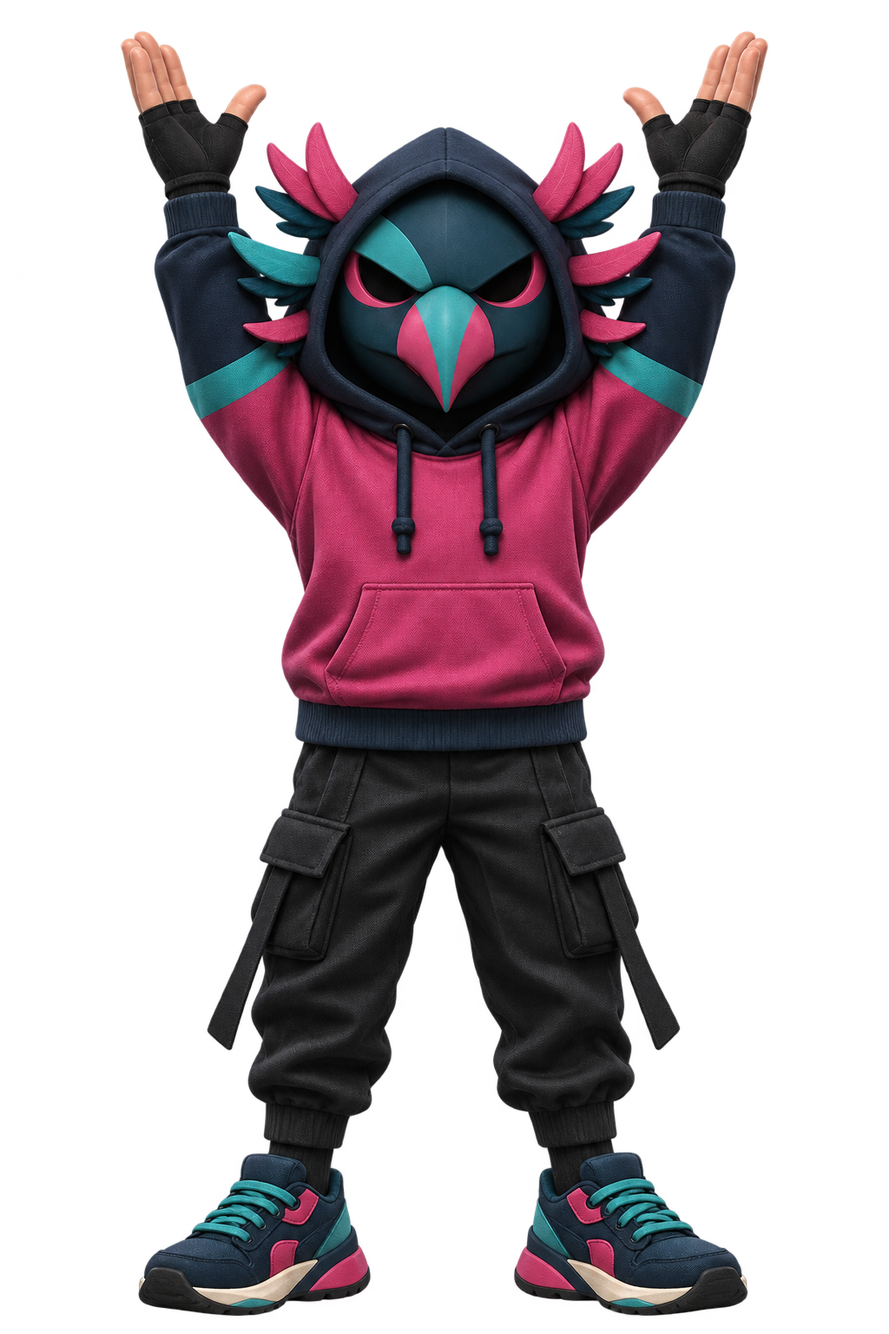
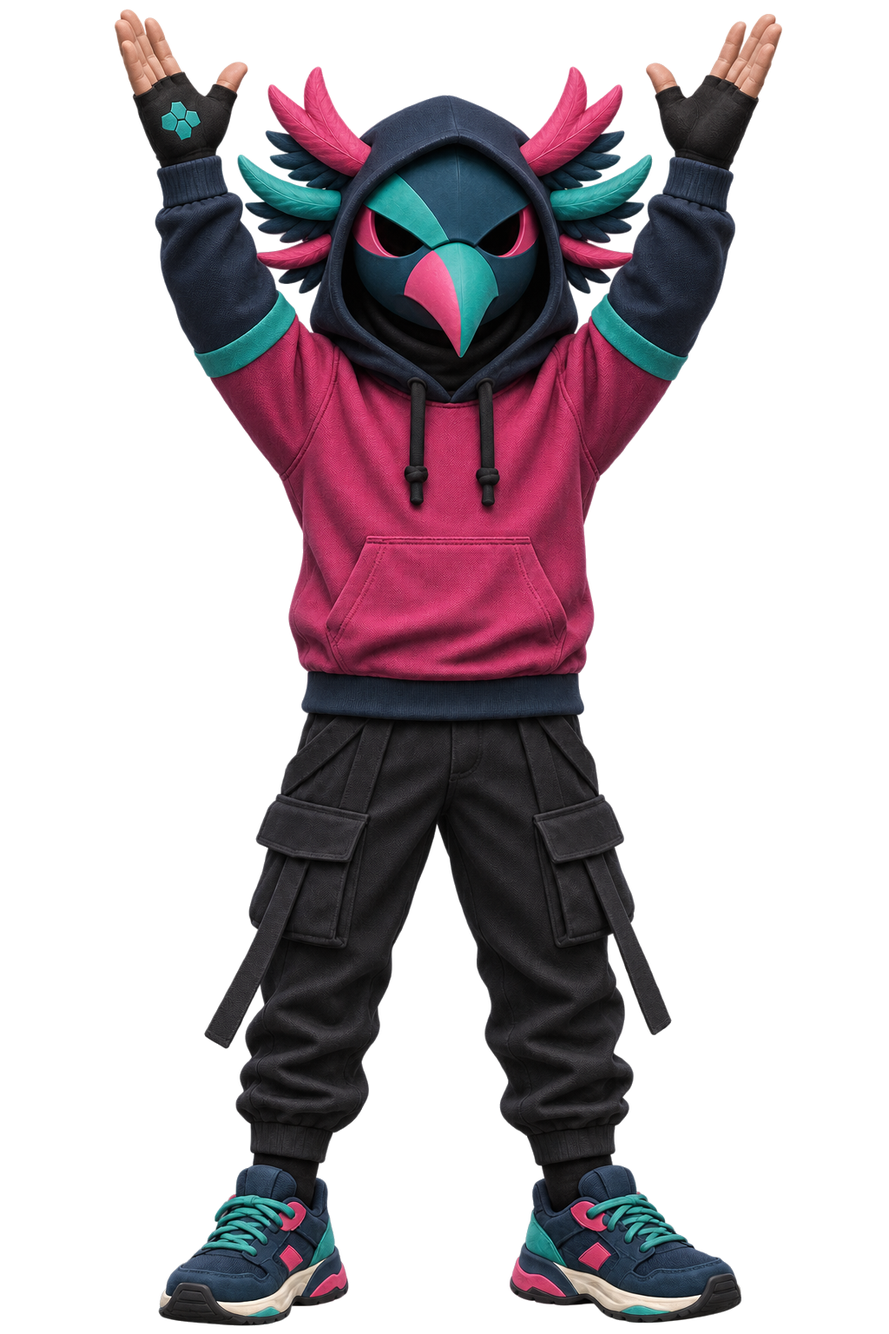
Arc: consistent realistic poses redrawn from one reference, glow removed

Changed region(s): [[0.125, 0.0, 0.875, 1.0], [0.5625, 0.6562, 0.5938, 0.6875]]

diff --git a/pricing.html b/pricing.html
@@ -20,7 +20,7 @@
 <link rel="preconnect" href="https://fonts.googleapis.com">
 <link rel="preconnect" href="https://fonts.gstatic.com" crossorigin>
 <link rel="stylesheet" href="https://fonts.googleapis.com/css2?family=Bebas+Neue&family=Caveat:wght@600&family=Figtree:wght@400;500;600;700&family=Archivo:wdth,wght@62..125,400..900&display=swap">
-<link rel="stylesheet" href="css/site.css?v=7">
+<link rel="stylesheet" href="css/site.css?v=8">
 <script>document.documentElement.className='js'</script>
 <script type="application/ld+json">[{"@context": "https://schema.org", "@type": "ProfessionalService", "@id": "https://arcanedesigner.com/#business", "name": "Arcane Designer", "legalName": "Arcane Designer LLC", "url": "https://arcanedesigner.com/", "logo": "https://arcanedesigner.com/android-chrome-512x512.png", "image": "https://arcanedesigner.com/assets/og.png", "email": "hello@arcanedesigner.com", "description": "One-time website and logo redesigns for small businesses, based in Spokane, Washington.", "founder": {"@type": "Person", "name": "Nathan Gellatly"}, "address": {"@type": "PostalAddress", "addressLocality": "Spokane", "addressRegion": "WA", "addressCountry": "US"}, "areaServed": [{"@type": "City", "name": "Spokane"}, {"@type": "Country", "name": "United States"}], "priceRange": "$500 to $3,500+", "makesOffer": [{"@type": "Offer", "name": "Website redesign", "description": "For most small business websites.", "priceSpecification": {"@type": "PriceSpecification", "minPrice": 1500, "priceCurrency": "USD"}}, {"@type": "Offer", "name": "Larger website", "description": "For sites with more than 10 pages, or extras like online booking, ordering or a small store.", "priceSpecification": {"@type": "PriceSpecification", "minPrice": 3500, "priceCurrency": "USD"}}, {"@type": "Offer", "name": "Logo redesign", "description": "A cleaner version of your logo, or a new one.", "priceSpecification": {"@type": "PriceSpecification", "minPrice": 500, "priceCurrency": "USD"}}]}, {"@context": "https://schema.org", "@type": "FAQPage", "mainEntity": [{"@type": "Question", "name": "Is there a monthly fee?", "acceptedAnswer": {"@type": "Answer", "text": "No. You pay for the project once. Your platform and hosting bills stay the same and keep going to the same companies."}}, {"@type": "Question", "name": "Do you host my website?", "acceptedAnswer": {"@type": "Answer", "text": "No. The new design is built on the platform you already use, so nothing moves, and nothing depends on Arcane Designer afterward."}}, {"@type": "Question", "name": "Which platforms do you work with?", "acceptedAnswer": {"@type": "Answer", "text": "Squarespace, Wix, WordPress, Shopify, Webflow and GoDaddy cover most sites. On something else? Send the link and you’ll get a straight answer."}}, {"@type": "Question", "name": "Do I have to share my password?", "acceptedAnswer": {"@type": "Answer", "text": "No. Most platforms let you add a helper account with its own login. When the project ends, you delete it."}}, {"@type": "Question", "name": "How long does it take?", "acceptedAnswer": {"@type": "Answer", "text": "It depends on the size of the site and how quickly feedback comes back. You’ll get a rough timeline with your quote."}}, {"@type": "Question", "name": "How does payment work?", "acceptedAnswer": {"@type": "Answer", "text": "Half at the start and half at launch, through Stripe invoices. Card or bank transfer both work."}}, {"@type": "Question", "name": "What if my site needs more than the starting price covers?", "acceptedAnswer": {"@type": "Answer", "text": "You’ll get a written quote before anything starts, and it won’t change without your OK."}}, {"@type": "Question", "name": "Do you write the words too?", "acceptedAnswer": {"@type": "Answer", "text": "Your existing text gets tidied and tightened, and short new sections get written where a page needs them. Rewriting every page from scratch can be added to the quote."}}, {"@type": "Question", "name": "Do you use AI?", "acceptedAnswer": {"@type": "Answer", "text": "Yes, for research, sketching ideas, building faster and catching mistakes. Every design and page is still reviewed by a person before you see it."}}, {"@type": "Question", "name": "Where are you based?", "acceptedAnswer": {"@type": "Answer", "text": "Spokane, Washington. The work is done remotely, so it doesn’t matter where your business is."}}]}]</script>
 </head>
@@ -92,7 +92,7 @@
       <p>Send the link. You&rsquo;ll get back a short list of what&rsquo;s worth changing and what it would cost.</p>
       <a class="btn " href="contact.html"><span>Start a project</span></a>
     </div>
-    <img class="arc" src="assets/arc/hands-up.webp" alt="" width="599" height="900" loading="lazy" data-anim="right">
+    <img class="arc" src="assets/arc/hands-up.webp" alt="" width="456" height="900" loading="lazy" data-anim="right">
   </div>
 </section>
 </main>
@@ -114,6 +114,6 @@
     </div>
   </div>
 </footer>
-<script src="js/site.js?v=7" defer></script>
+<script src="js/site.js?v=8" defer></script>
 </body>
 </html>

diff --git a/index.html b/index.html
@@ -20,7 +20,7 @@
 <link rel="preconnect" href="https://fonts.googleapis.com">
 <link rel="preconnect" href="https://fonts.gstatic.com" crossorigin>
 <link rel="stylesheet" href="https://fonts.googleapis.com/css2?family=Bebas+Neue&family=Caveat:wght@600&family=Figtree:wght@400;500;600;700&family=Archivo:wdth,wght@62..125,400..900&display=swap">
-<link rel="stylesheet" href="css/site.css?v=7">
+<link rel="stylesheet" href="css/site.css?v=8">
 <script>document.documentElement.className='js'</script>
 <link rel="preload" as="image" href="assets/samples/lilac-row-bakery-before.webp">
 <script type="application/ld+json">{"@context": "https://schema.org", "@type": "ProfessionalService", "@id": "https://arcanedesigner.com/#business", "name": "Arcane Designer", "legalName": "Arcane Designer LLC", "url": "https://arcanedesigner.com/", "logo": "https://arcanedesigner.com/android-chrome-512x512.png", "image": "https://arcanedesigner.com/assets/og.png", "email": "hello@arcanedesigner.com", "description": "One-time website and logo redesigns for small businesses, based in Spokane, Washington.", "founder": {"@type": "Person", "name": "Nathan Gellatly"}, "address": {"@type": "PostalAddress", "addressLocality": "Spokane", "addressRegion": "WA", "addressCountry": "US"}, "areaServed": [{"@type": "City", "name": "Spokane"}, {"@type": "Country", "name": "United States"}], "priceRange": "$500 to $3,500+", "makesOffer": [{"@type": "Offer", "name": "Website redesign", "description": "For most small business websites.", "priceSpecification": {"@type": "PriceSpecification", "minPrice": 1500, "priceCurrency": "USD"}}, {"@type": "Offer", "name": "Larger website", "description": "For sites with more than 10 pages, or extras like online booking, ordering or a small store.", "priceSpecification": {"@type": "PriceSpecification", "minPrice": 3500, "priceCurrency": "USD"}}, {"@type": "Offer", "name": "Logo redesign", "description": "A cleaner version of your logo, or a new one.", "priceSpecification": {"@type": "PriceSpecification", "minPrice": 500, "priceCurrency": "USD"}}]}</script>
@@ -55,7 +55,7 @@
   <div class="pin-sticky">
     <div class="wrap">
       <div class="hero-stage">
-        <div class="perch"><img src="assets/arc/relaxed.webp" alt="Arc, the Arcane Designer mascot, lounging on top of the browser window" width="900" height="596"></div>
+        <div class="perch"><img src="assets/arc/relaxed.webp" alt="Arc, the Arcane Designer mascot, lounging on top of the browser window" width="900" height="452"></div>
         <div class="bubble" aria-hidden="true"><span data-a="Scroll down. Watch this." data-b="Much better.">Scroll down. Watch this.</span></div>
         <div class="browser"><div class="bar"><i></i><i></i><i></i><b>lilacrowbakery.com</b></div><div class="compare" style="--pos:100%" data-scroll-wipe>
   <img src="assets/samples/lilac-row-bakery-before.webp" alt="Lilac Row Bakery website before the redesign" width="1440" height="900">
@@ -150,7 +150,7 @@
       <p>Send the link. You&rsquo;ll get back a short list of what&rsquo;s worth changing and what it would cost.</p>
       <a class="btn " href="contact.html"><span>Start a project</span></a>
     </div>
-    <img class="arc" src="assets/arc/hands-up.webp" alt="" width="599" height="900" loading="lazy" data-anim="right">
+    <img class="arc" src="assets/arc/hands-up.webp" alt="" width="456" height="900" loading="lazy" data-anim="right">
   </div>
 </section>
 </main>
@@ -172,6 +172,6 @@
     </div>
   </div>
 </footer>
-<script src="js/site.js?v=7" defer></script>
+<script src="js/site.js?v=8" defer></script>
 </body>
 </html>

diff --git a/process.html b/process.html
@@ -20,7 +20,7 @@
 <link rel="preconnect" href="https://fonts.googleapis.com">
 <link rel="preconnect" href="https://fonts.gstatic.com" crossorigin>
 <link rel="stylesheet" href="https://fonts.googleapis.com/css2?family=Bebas+Neue&family=Caveat:wght@600&family=Figtree:wght@400;500;600;700&family=Archivo:wdth,wght@62..125,400..900&display=swap">
-<link rel="stylesheet" href="css/site.css?v=7">
+<link rel="stylesheet" href="css/site.css?v=8">
 <script>document.documentElement.className='js'</script>
 </head>
 <body>
@@ -42,7 +42,7 @@
       <h1>From old site to new one, in six steps.</h1>
       <p class="big">Here&rsquo;s what happens, and what you&rsquo;ll need to do along the way.</p>
     </div>
-    <img class="arc" src="assets/arc/stands.webp" alt="" width="585" height="900" data-anim="right">
+    <img class="arc" src="assets/arc/stands.webp" alt="" width="336" height="900" data-anim="right">
   </div>
 </section>
 <section class="sec" style="padding-top:10px">
@@ -68,7 +68,7 @@
 </section>
 <section class="sec navy-sec">
   <div class="wrap ai-block">
-    <img src="assets/arc/presents-floor.webp" alt="" width="608" height="900" loading="lazy" data-anim="left">
+    <img src="assets/arc/presents-floor.webp" alt="" width="499" height="900" loading="lazy" data-anim="left">
     <div class="copy" data-anim="right">
       <h2>Yes, we use AI.</h2>
       <p>It&rsquo;s how we keep projects quick and prices low without cutting corners on quality. We just didn&rsquo;t want it to be a surprise.</p>
@@ -103,7 +103,7 @@
       <p>Send the link. You&rsquo;ll get back a short list of what&rsquo;s worth changing and what it would cost.</p>
       <a class="btn " href="contact.html"><span>Start a project</span></a>
     </div>
-    <img class="arc" src="assets/arc/hands-up.webp" alt="" width="599" height="900" loading="lazy" data-anim="right">
+    <img class="arc" src="assets/arc/hands-up.webp" alt="" width="456" height="900" loading="lazy" data-anim="right">
   </div>
 </section>
 </main>
@@ -125,6 +125,6 @@
     </div>
   </div>
 </footer>
-<script src="js/site.js?v=7" defer></script>
+<script src="js/site.js?v=8" defer></script>
 </body>
 </html>

diff --git a/work.html b/work.html
@@ -20,7 +20,7 @@
 <link rel="preconnect" href="https://fonts.googleapis.com">
 <link rel="preconnect" href="https://fonts.gstatic.com" crossorigin>
 <link rel="stylesheet" href="https://fonts.googleapis.com/css2?family=Bebas+Neue&family=Caveat:wght@600&family=Figtree:wght@400;500;600;700&family=Archivo:wdth,wght@62..125,400..900&display=swap">
-<link rel="stylesheet" href="css/site.css?v=7">
+<link rel="stylesheet" href="css/site.css?v=8">
 <script>document.documentElement.className='js'</script>
 </head>
 <body>
@@ -42,7 +42,7 @@
       <h1>Before and after.</h1>
       <p class="big">Drag the slider on any of them. These are samples for businesses that don&rsquo;t exist, each in a different style. Client projects and their reviews will join them here.</p>
     </div>
-    <img src="assets/arc/presents.webp" alt="" width="606" height="900" data-anim="right">
+    <img src="assets/arc/presents.webp" alt="" width="499" height="900" data-anim="right">
   </div>
 </section>
 <section class="sec" style="padding-top:30px">
@@ -111,7 +111,7 @@
       <p>Send your website and see what it could look like.</p>
       <a class="btn " href="contact.html"><span>Start a project</span></a>
     </div>
-    <img class="arc" src="assets/arc/hands-up.webp" alt="" width="599" height="900" loading="lazy" data-anim="right">
+    <img class="arc" src="assets/arc/hands-up.webp" alt="" width="456" height="900" loading="lazy" data-anim="right">
   </div>
 </section>
 </main>
@@ -133,6 +133,6 @@
     </div>
   </div>
 </footer>
-<script src="js/site.js?v=7" defer></script>
+<script src="js/site.js?v=8" defer></script>
 </body>
 </html>

diff --git a/contact.html b/contact.html
@@ -20,7 +20,7 @@
 <link rel="preconnect" href="https://fonts.googleapis.com">
 <link rel="preconnect" href="https://fonts.gstatic.com" crossorigin>
 <link rel="stylesheet" href="https://fonts.googleapis.com/css2?family=Bebas+Neue&family=Caveat:wght@600&family=Figtree:wght@400;500;600;700&family=Archivo:wdth,wght@62..125,400..900&display=swap">
-<link rel="stylesheet" href="css/site.css?v=7">
+<link rel="stylesheet" href="css/site.css?v=8">
 <script>document.documentElement.className='js'</script>
 </head>
 <body>
@@ -70,7 +70,7 @@
     <aside class="contact-side" data-anim="right">
       <div class="card"><h3>Prefer email?</h3><a class="mail" href="mailto:hello@arcanedesigner.com">hello@arcanedesigner.com</a></div>
       <div class="card"><h3>What happens next</h3><p>You&rsquo;ll get a short list of what&rsquo;s worth changing and a price. If you want to go ahead, a questionnaire and a deposit invoice come next.</p><a class="tlink small" href="process.html" style="justify-self:start">The full process</a></div>
-      <img src="assets/arc/relaxed.webp" alt="" width="900" height="596" loading="lazy">
+      <img src="assets/arc/relaxed.webp" alt="" width="900" height="452" loading="lazy">
     </aside>
   </div>
 </section>
@@ -93,6 +93,6 @@
     </div>
   </div>
 </footer>
-<script src="js/site.js?v=7" defer></script>
+<script src="js/site.js?v=8" defer></script>
 </body>
 </html>

diff --git a/404.html b/404.html
@@ -20,7 +20,7 @@
 <link rel="preconnect" href="https://fonts.googleapis.com">
 <link rel="preconnect" href="https://fonts.gstatic.com" crossorigin>
 <link rel="stylesheet" href="https://fonts.googleapis.com/css2?family=Bebas+Neue&family=Caveat:wght@600&family=Figtree:wght@400;500;600;700&family=Archivo:wdth,wght@62..125,400..900&display=swap">
-<link rel="stylesheet" href="css/site.css?v=7">
+<link rel="stylesheet" href="css/site.css?v=8">
 <script>document.documentElement.className='js'</script>
 <base href="/">
 </head>
@@ -39,7 +39,7 @@
 <main id="main">
 <section class="sec glow">
   <div class="wrap" style="display:grid;grid-template-columns:auto 1fr;gap:clamp(24px,5vw,60px);align-items:center;max-width:960px">
-    <img src="assets/arc/flabbergasted.webp" alt="" width="610" height="900" style="width:clamp(110px,14vw,170px)">
+    <img src="assets/arc/flabbergasted.webp" alt="" width="395" height="900" style="width:clamp(110px,14vw,170px)">
     <div style="display:grid;gap:22px;justify-items:start">
       <h1 style="font-size:clamp(2.4rem,1.6rem + 3vw,4rem)">That page isn&rsquo;t here.</h1>
       <p class="big">It probably moved when the site was redesigned. A little ironic.</p>
@@ -66,6 +66,6 @@
     </div>
   </div>
 </footer>
-<script src="js/site.js?v=7" defer></script>
+<script src="js/site.js?v=8" defer></script>
 </body>
 </html>

diff --git a/questionnaire.html b/questionnaire.html
@@ -20,7 +20,7 @@
 <link rel="preconnect" href="https://fonts.googleapis.com">
 <link rel="preconnect" href="https://fonts.gstatic.com" crossorigin>
 <link rel="stylesheet" href="https://fonts.googleapis.com/css2?family=Bebas+Neue&family=Caveat:wght@600&family=Figtree:wght@400;500;600;700&family=Archivo:wdth,wght@62..125,400..900&display=swap">
-<link rel="stylesheet" href="css/site.css?v=7">
+<link rel="stylesheet" href="css/site.css?v=8">
 <script>document.documentElement.className='js'</script>
 </head>
 <body>
@@ -77,6 +77,6 @@
     </div>
   </div>
 </footer>
-<script src="js/site.js?v=7" defer></script>
+<script src="js/site.js?v=8" defer></script>
 </body>
 </html>

diff --git a/tools/pages.py b/tools/pages.py
@@ -4,7 +4,7 @@ Run from the repo root:  python3 tools/pages.py
 Edit copy here, then re-run. The generated .html files are what GitHub Pages serves."""
 import json, math, os
 
-V = '7'                      # bump after CSS/JS changes so browsers refetch
+V = '8'                      # bump after CSS/JS changes so browsers refetch
 BASE = 'https://arcanedesigner.com'
 EMAIL = 'hello@arcanedesigner.com'
 LINKEDIN_BIZ = ''            # Arcane Designer company page URL (footer). Empty = hidden.
@@ -79,7 +79,7 @@ def closer(title='Got an old website?', body='Send the link. You&rsquo;ll get ba
       <p>{body}</p>
       {btn("contact.html", "Start a project")}
     </div>
-    <img class="arc" src="assets/arc/hands-up.webp" alt="" width="599" height="900" loading="lazy" data-anim="right">
+    <img class="arc" src="assets/arc/hands-up.webp" alt="" width="456" height="900" loading="lazy" data-anim="right">
   </div>
 </section>
 '''
@@ -266,7 +266,7 @@ home += f'''<section class="hero glow">
   <div class="pin-sticky">
     <div class="wrap">
       <div class="hero-stage">
-        <div class="perch"><img src="assets/arc/relaxed.webp" alt="Arc, the Arcane Designer mascot, lounging on top of the browser window" width="900" height="596"></div>
+        <div class="perch"><img src="assets/arc/relaxed.webp" alt="Arc, the Arcane Designer mascot, lounging on top of the browser window" width="900" height="452"></div>
         <div class="bubble" aria-hidden="true"><span data-a="Scroll down. Watch this." data-b="Much better.">Scroll down. Watch this.</span></div>
         {browser(s0['url'], compare(s0['slug'], s0['name'], 100, eager=True, wipe=True))}
       </div>
@@ -367,7 +367,7 @@ work += '''<section class="intro glow">
       <h1>Before and after.</h1>
       <p class="big">Drag the slider on any of them. These are samples for businesses that don&rsquo;t exist, each in a different style. Client projects and their reviews will join them here.</p>
     </div>
-    <img src="assets/arc/presents.webp" alt="" width="606" height="900" data-anim="right">
+    <img src="assets/arc/presents.webp" alt="" width="499" height="900" data-anim="right">
   </div>
 </section>
 <section class="sec" style="padding-top:30px">
@@ -411,7 +411,7 @@ proc += '''<section class="intro glow">
       <h1>From old site to new one, in six steps.</h1>
       <p class="big">Here&rsquo;s what happens, and what you&rsquo;ll need to do along the way.</p>
     </div>
-    <img class="arc" src="assets/arc/stands.webp" alt="" width="585" height="900" data-anim="right">
+    <img class="arc" src="assets/arc/stands.webp" alt="" width="336" height="900" data-anim="right">
   </div>
 </section>
 <section class="sec" style="padding-top:10px">
@@ -428,7 +428,7 @@ proc += f'''    </div>
 </section>
 <section class="sec navy-sec">
   <div class="wrap ai-block">
-    <img src="assets/arc/presents-floor.webp" alt="" width="608" height="900" loading="lazy" data-anim="left">
+    <img src="assets/arc/presents-floor.webp" alt="" width="499" height="900" loading="lazy" data-anim="left">
     <div class="copy" data-anim="right">
       <h2>Yes, we use AI.</h2>
       <p>It&rsquo;s how we keep projects quick and prices low without cutting corners on quality. We just didn&rsquo;t want it to be a surprise.</p>
@@ -551,7 +551,7 @@ ct += f'''<section class="intro glow">
     <aside class="contact-side" data-anim="right">
       <div class="card"><h3>Prefer email?</h3><a class="mail" href="mailto:{EMAIL}">{EMAIL}</a></div>
       <div class="card"><h3>What happens next</h3><p>You&rsquo;ll get a short list of what&rsquo;s worth changing and a price. If you want to go ahead, a questionnaire and a deposit invoice come next.</p><a class="tlink small" href="process.html" style="justify-self:start">The full process</a></div>
-      <img src="assets/arc/relaxed.webp" alt="" width="900" height="596" loading="lazy">
+      <img src="assets/arc/relaxed.webp" alt="" width="900" height="452" loading="lazy">
     </aside>
   </div>
 </section>
@@ -640,7 +640,7 @@ nf = head('Page Not Found | Arcane Designer', 'This page does not exist.', '404.
 nf += header('')
 nf += f'''<section class="sec glow">
   <div class="wrap" style="display:grid;grid-template-columns:auto 1fr;gap:clamp(24px,5vw,60px);align-items:center;max-width:960px">
-    <img src="assets/arc/flabbergasted.webp" alt="" width="610" height="900" style="width:clamp(110px,14vw,170px)">
+    <img src="assets/arc/flabbergasted.webp" alt="" width="395" height="900" style="width:clamp(110px,14vw,170px)">
     <div style="display:grid;gap:22px;justify-items:start">
       <h1 style="font-size:clamp(2.4rem,1.6rem + 3vw,4rem)">That page isn&rsquo;t here.</h1>
       <p class="big">It probably moved when the site was redesigned. A little ironic.</p>

diff --git a/tools/arc-src/clean.py b/tools/arc-src/clean.py
@@ -1,0 +1,10 @@
+# removes the faint glow Codex leaves in transparent edges: drop near-invisible pixels, keep the crisp edge
+import sys, numpy as np
+from PIL import Image
+for f in sys.argv[1:]:
+    im = np.array(Image.open(f).convert('RGBA'))
+    a = im[:, :, 3].astype(int)
+    a[a < 28] = 0
+    im[:, :, 3] = a
+    Image.fromarray(im).save(f)
+    print('cleaned', f)

diff --git a/tools/arc-src/prompts-v2/relaxed.md b/tools/arc-src/prompts-v2/relaxed.md
@@ -1,0 +1,19 @@
+<!-- refs: tools/arc-src/ref-relaxed.png tools/arc-src/canon-stands.png -->
+Generate ONE image with your built-in image generation tool and save it as a PNG at the exact path given at the end (inside this workspace). Do not create or modify any other files. When done, reply with the saved path.
+
+Image 1 is Arc, the Arcane Designer mascot, as a flat cartoon, showing the POSE to use. Image 2 is the OFFICIAL 3D model of Arc: copy his look, materials, colors and every detail from image 2 exactly, as if image 2's character model was re-posed into image 1's pose. Same character, same render style: high-end semi-realistic 3D character render, soft studio lighting, believable fabric, with a very subtle satin sheen on the mask and sneakers (only slightly polished, not glossy, not plastic).
+
+Pose: lying on his side on top of something, propped on one elbow with his head resting on that hand, legs stretched out and crossed at the ankles, relaxed and smug. The hand under his head is a normal adult-sized hand in a fingerless glove, fully visible, not cut off. Match image 1's pose, proportions and camera angle. Full body visible, nothing cropped, small margin.
+
+Checklist. Every item must be true (sides are as the VIEWER sees them):
+1. Feather frills stick out from BOTH sides of the hood, left and right, every time: on each side a large pink feather pair on top, a teal feather below it, and small dark navy feathers. Neither side is ever missing its frills. No teal feathers poking out from behind the head anywhere else.
+2. Bird mask: dark teal-navy, with the lighter teal panel on the upper LEFT of the face only, dark eye area, beak pink on top fading to teal toward the tip.
+3. Raspberry-pink hoodie, plain front with only the pouch pocket and dark drawstrings. No logo, star or emblem on the chest. Dark navy sleeves with one teal band on each upper sleeve. Dark navy cuffs and waistband.
+4. Black fingerless gloves, skin showing on the fingers. The glove on the hand that is on the VIEWER'S LEFT has a small teal cluster of hexagons on its back; the other glove is plain. Hands are normal adult size.
+5. Black cargo jogger pants with side pockets and hanging straps, black socks.
+6. Sneakers, identical on both feet: dark navy upper, teal laces, a pink panel on the side, cream midsole, and at the back of each shoe a TEAL block in the middle of the heel with PINK below it at the bottom of the heel, just above the sole.
+
+Background: fully transparent PNG with alpha. No glow, no halo, no colored light or haze around him, no floor, no shadow, no text.
+Size: 1536x1024 landscape.
+
+Save to: tools/arc-src/out/relaxed.png

diff --git a/tools/arc-src/prompts-v2/hands-up.md b/tools/arc-src/prompts-v2/hands-up.md
@@ -1,0 +1,19 @@
+<!-- refs: tools/arc-src/ref-hands-up.png tools/arc-src/canon-stands.png -->
+Generate ONE image with your built-in image generation tool and save it as a PNG at the exact path given at the end (inside this workspace). Do not create or modify any other files. When done, reply with the saved path.
+
+Image 1 is Arc, the Arcane Designer mascot, as a flat cartoon, showing the POSE to use. Image 2 is the OFFICIAL 3D model of Arc: copy his look, materials, colors and every detail from image 2 exactly, as if image 2's character model was re-posed into image 1's pose. Same character, same render style: high-end semi-realistic 3D character render, soft studio lighting, believable fabric, with a very subtle satin sheen on the mask and sneakers (only slightly polished, not glossy, not plastic).
+
+Pose: standing, both arms raised high above his head with palms up, presenting something above him. Match image 1's pose, proportions and camera angle. Full body visible, nothing cropped, small margin.
+
+Checklist. Every item must be true (sides are as the VIEWER sees them):
+1. Feather frills stick out from BOTH sides of the hood, left and right, every time: on each side a large pink feather pair on top, a teal feather below it, and small dark navy feathers. Neither side is ever missing its frills. No teal feathers poking out from behind the head anywhere else.
+2. Bird mask: dark teal-navy, with the lighter teal panel on the upper LEFT of the face only, dark eye area, beak pink on top fading to teal toward the tip.
+3. Raspberry-pink hoodie, plain front with only the pouch pocket and dark drawstrings. No logo, star or emblem on the chest. Dark navy sleeves with one teal band on each upper sleeve. Dark navy cuffs and waistband.
+4. Black fingerless gloves, skin showing on the fingers. The glove on the hand that is on the VIEWER'S LEFT has a small teal cluster of hexagons on its back; the other glove is plain. Hands are normal adult size.
+5. Black cargo jogger pants with side pockets and hanging straps, black socks.
+6. Sneakers, identical on both feet: dark navy upper, teal laces, a pink panel on the side, cream midsole, and at the back of each shoe a TEAL block in the middle of the heel with PINK below it at the bottom of the heel, just above the sole.
+
+Background: fully transparent PNG with alpha. No glow, no halo, no colored light or haze around him, no floor, no shadow, no text.
+Size: 1024x1536 portrait.
+
+Save to: tools/arc-src/out/hands-up.png

diff --git a/tools/arc-src/prompts-v2/flabbergasted.md b/tools/arc-src/prompts-v2/flabbergasted.md
@@ -1,0 +1,19 @@
+<!-- refs: tools/arc-src/ref-flabbergasted.png tools/arc-src/canon-stands.png -->
+Generate ONE image with your built-in image generation tool and save it as a PNG at the exact path given at the end (inside this workspace). Do not create or modify any other files. When done, reply with the saved path.
+
+Image 1 is Arc, the Arcane Designer mascot, as a flat cartoon, showing the POSE to use. Image 2 is the OFFICIAL 3D model of Arc: copy his look, materials, colors and every detail from image 2 exactly, as if image 2's character model was re-posed into image 1's pose. Same character, same render style: high-end semi-realistic 3D character render, soft studio lighting, believable fabric, with a very subtle satin sheen on the mask and sneakers (only slightly polished, not glossy, not plastic).
+
+Pose: standing, shocked and flabbergasted, hands on the sides of his head. Match image 1's pose, proportions and camera angle. Full body visible, nothing cropped, small margin.
+
+Checklist. Every item must be true (sides are as the VIEWER sees them):
+1. Feather frills stick out from BOTH sides of the hood, left and right, every time: on each side a large pink feather pair on top, a teal feather below it, and small dark navy feathers. Neither side is ever missing its frills. No teal feathers poking out from behind the head anywhere else.
+2. Bird mask: dark teal-navy, with the lighter teal panel on the upper LEFT of the face only, dark eye area, beak pink on top fading to teal toward the tip.
+3. Raspberry-pink hoodie, plain front with only the pouch pocket and dark drawstrings. No logo, star or emblem on the chest. Dark navy sleeves with one teal band on each upper sleeve. Dark navy cuffs and waistband.
+4. Black fingerless gloves, skin showing on the fingers. The glove on the hand that is on the VIEWER'S LEFT has a small teal cluster of hexagons on its back; the other glove is plain. Hands are normal adult size.
+5. Black cargo jogger pants with side pockets and hanging straps, black socks.
+6. Sneakers, identical on both feet: dark navy upper, teal laces, a pink panel on the side, cream midsole, and at the back of each shoe a TEAL block in the middle of the heel with PINK below it at the bottom of the heel, just above the sole.
+
+Background: fully transparent PNG with alpha. No glow, no halo, no colored light or haze around him, no floor, no shadow, no text.
+Size: 1024x1536 portrait.
+
+Save to: tools/arc-src/out/flabbergasted.png
